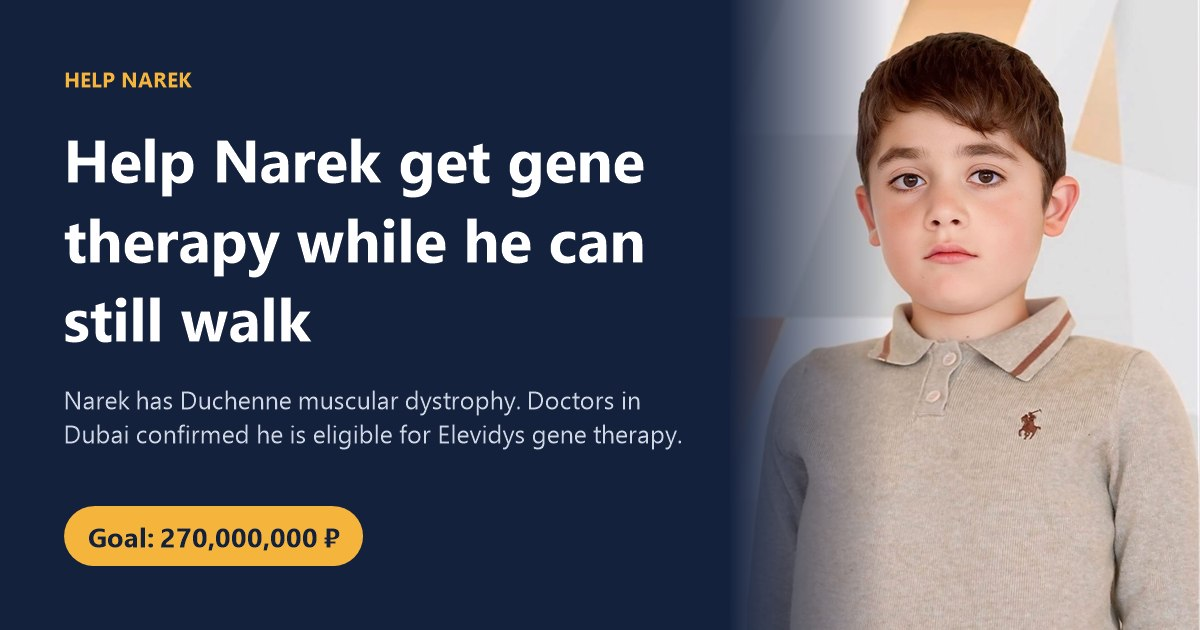
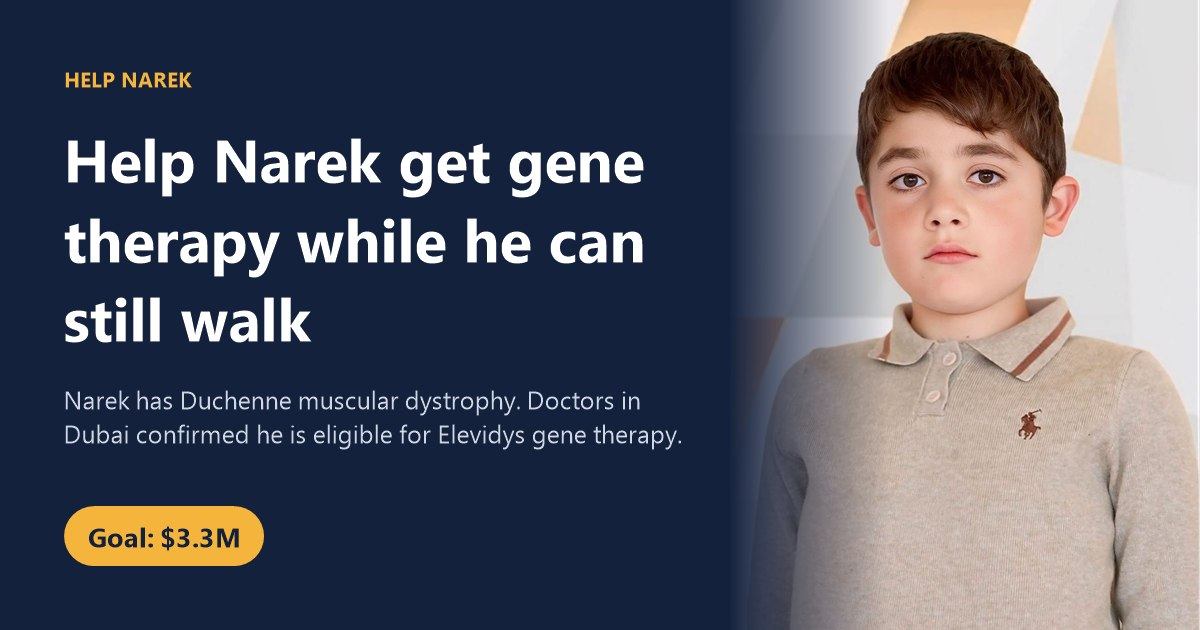
feat: add moneyCompact filter and enhance currency handling
- Introduced a new filter `moneyCompact` for compact currency formatting.
- Enhanced `inCurrency` function for better currency conversion handling.
- Updated `pageVars` to utilize new currency conversion logic and display both compact and full currency formats.
- Modified campaign data structure to remove TODO placeholders for beneficiary and account details.
- Improved English, Armenian, and Russian translations for clarity and consistency.
- Refactored donation section to improve layout and accessibility.
- Added OG image generation script to format goal amounts correctly.
- Created a new og-data endpoint for social media previews.

Changed region(s): [[0.1233, 0.7841, 0.3083, 0.9048]]

diff --git a/src/assets/css/style.css b/src/assets/css/style.css
@@ -229,6 +229,14 @@ a:hover { color: var(--navy-600); }
 
 .actions { display: flex; flex-wrap: wrap; gap: 0.75rem; margin-top: 1.75rem; }
 
+.hero__date {
+  display: inline-flex; align-items: center; gap: 0.5rem; margin: 0;
+  padding: 0.45em 1em; border-radius: 999px;
+  background: var(--amber-100); border: 1px solid var(--amber); color: var(--amber-ink);
+  font-size: 0.98rem; font-weight: 600;
+}
+.hero__date strong { color: var(--navy-900); }
+
 @media (min-width: 960px) {
   .hero__grid { grid-template-columns: minmax(0, 1.2fr) minmax(0, 0.8fr); }
   .hero__photo { justify-self: end; }
@@ -383,49 +391,86 @@ a:hover { color: var(--navy-600); }
 
 /* ---------- Donate ---------- */
 
+/* Sits right under the hero, on white, so it reads as its own step */
 .section--donate {
-  background:
-    radial-gradient(50rem 25rem at 100% 0%, rgb(245 181 61 / 0.16), transparent 60%),
-    var(--bg);
+  padding-block: clamp(2.5rem, 6vw, 4.5rem);
+  background: var(--surface);
+  border-block: 1px solid var(--line);
 }
-.donate__head { max-width: 46rem; margin-bottom: 2rem; }
+/* Narrower than the page, but left-aligned with the other sections */
+.donate > * { max-width: 940px; }
+.donate__head { margin-bottom: 1.5rem; }
+.donate__head .lead { margin-bottom: 1rem; }
 .recipient {
   display: inline-flex; flex-wrap: wrap; align-items: baseline; gap: 0.35em;
-  background: var(--surface); border: 1px solid var(--line); border-radius: 999px;
-  padding: 0.5em 1.1em; margin: 0; box-shadow: var(--shadow-sm);
+  background: var(--alt); border-radius: 14px;
+  padding: 0.45em 1.1em; margin: 0;
 }
 .recipient strong { color: var(--navy-900); }
 
-/* Two roomy columns so card numbers and their Copy button always fit on one line.
-   "dense" lets the "After you donate" tile fill the gap next to an odd card. */
-.pay-grid {
-  display: grid; gap: 1.25rem; grid-auto-flow: row dense;
-  grid-template-columns: repeat(auto-fill, minmax(min(100%, 420px), 1fr));
-}
-.pay {
-  display: flex; flex-direction: column;
+/* One row per card / wallet: currency · name + bank · number · Copy */
+.pay-list {
+  list-style: none; margin: 0; padding: 0;
   background: var(--surface); border: 1px solid var(--line); border-radius: var(--radius-lg);
-  padding: 1.4rem; box-shadow: var(--shadow-sm);
+  box-shadow: var(--shadow); overflow: hidden;
 }
-.pay--swift { grid-column: 1 / -1; }
-.pay__head { display: flex; align-items: center; justify-content: space-between; gap: 1rem; margin-bottom: 1rem; }
-.pay__head h3 { margin: 0; font-size: 1.1rem; }
-.pay__currency {
-  flex: none; background: var(--navy-900); color: #fff;
-  font-size: 0.78rem; font-weight: 800; letter-spacing: 0.06em;
-  padding: 0.25em 0.65em; border-radius: 999px;
+.pay-row {
+  display: grid; align-items: center; gap: 0.5rem 1rem;
+  grid-template-columns: auto minmax(0, 1fr) auto auto;
+  grid-template-areas: "cur info number copy";
+  padding: 1rem 1.25rem;
 }
-.pay__label { margin: 0 0 0.2rem; font-size: 0.8rem; font-weight: 700; letter-spacing: 0.04em; text-transform: uppercase; color: var(--muted); }
-.pay__number {
-  display: flex; flex-wrap: wrap; align-items: center; justify-content: space-between; gap: 0.5rem 0.75rem;
-  background: var(--alt); border-radius: var(--radius-sm); padding: 0.55rem 0.55rem 0.55rem 0.9rem;
+.pay-row + .pay-row { border-top: 1px solid var(--line); }
+.pay-row__currency {
+  grid-area: cur; display: grid; place-items: center;
+  min-width: 52px; height: 34px; padding: 0 0.55rem; border-radius: 10px;
+  background: var(--navy-900); color: #fff;
+  font-size: 0.78rem; font-weight: 800; letter-spacing: 0.06em; white-space: nowrap;
 }
-.pay__digits {
-  font-size: clamp(1.1rem, 1rem + 0.6vw, 1.3rem); font-weight: 750; letter-spacing: 0.04em;
+.pay-row__info { grid-area: info; min-width: 0; }
+.pay-row__title { margin: 0; font-size: 1.02rem; font-weight: 700; letter-spacing: 0; color: var(--navy-900); }
+.pay-row__meta { margin: 0.1rem 0 0; font-size: 0.88rem; line-height: 1.4; color: var(--muted); }
+.pay-row__number {
+  grid-area: number;
+  font-size: 1.15rem; font-weight: 750; letter-spacing: 0.04em;
   font-variant-numeric: tabular-nums; color: var(--navy-900); white-space: nowrap;
 }
-.pay__bank { margin: 0.8rem 0 0; font-size: 0.95rem; }
-.pay__hint { margin: 0.6rem 0 0; font-size: 0.92rem; color: var(--muted); }
+.pay-row > .copy { grid-area: copy; }
+@media (max-width: 640px) {
+  .pay-row {
+    grid-template-columns: auto minmax(0, 1fr) auto;
+    grid-template-areas: "cur info info" "number number copy";
+    align-items: start;
+    padding: 1rem;
+  }
+  .pay-row__currency { height: 26px; min-width: 44px; font-size: 0.72rem; margin-top: 0.1rem; }
+  .pay-row__number, .pay-row > .copy { align-self: center; }
+  .pay-row__number { font-size: 1.08rem; }
+}
+
+/* International transfer: folded by default */
+.pay-swift {
+  margin-top: 1rem;
+  background: var(--surface); border: 1px solid var(--line); border-radius: var(--radius-lg);
+  box-shadow: var(--shadow-sm);
+}
+.pay-swift summary {
+  display: flex; align-items: center; gap: 1rem;
+  padding: 1rem 1.25rem; cursor: pointer; list-style: none;
+}
+.pay-swift summary::-webkit-details-marker { display: none; }
+.pay-swift summary::after {
+  content: ""; flex: none; margin: 0 0.4rem 0 auto;
+  width: 9px; height: 9px;
+  border-right: 2px solid var(--navy-800); border-bottom: 2px solid var(--navy-800);
+  transform: rotate(45deg) translate(-2px, -2px); transition: transform 0.2s;
+}
+.pay-swift[open] summary::after { transform: rotate(-135deg) translate(-2px, -2px); }
+.pay-swift__title { display: flex; flex-direction: column; min-width: 0; }
+.pay-swift__toggle { font-size: 0.88rem; font-weight: 600; color: var(--navy-600); text-decoration: underline; text-underline-offset: 0.2em; }
+.pay-swift[open] .pay-swift__toggle { display: none; }
+.pay-swift__body { padding: 1rem 1.25rem 1.25rem; border-top: 1px solid var(--line); }
+.pay-swift__hint { font-size: 0.92rem; color: var(--muted); }
 
 .pay__fields { display: grid; gap: 0.9rem 2rem; margin: 0; grid-template-columns: repeat(auto-fill, minmax(min(100%, 280px), 1fr)); }
 .pay__fields dt { font-size: 0.8rem; font-weight: 700; letter-spacing: 0.04em; text-transform: uppercase; color: var(--muted); }
@@ -443,13 +488,9 @@ a:hover { color: var(--navy-600); }
 .copy:hover { border-color: var(--navy-600); }
 .copy.is-done { background: var(--green); border-color: var(--green); color: #fff; }
 
-.after-donate {
-  display: flex; gap: 1rem; align-items: flex-start;
-  background: var(--navy-900); color: #dfe5f1; border-radius: var(--radius-lg); padding: 1.4rem 1.6rem;
-}
-.after-donate > .icon { color: var(--amber); width: 28px; height: 28px; margin-top: 2px; }
-.after-donate h3 { color: #fff; margin-bottom: 0.25rem; font-size: 1.1rem; }
-.after-donate p { margin: 0; }
+.after-donate { display: flex; gap: 0.6rem; align-items: flex-start; margin: 1.5rem 0 0; font-size: 0.95rem; color: var(--muted); }
+.after-donate > .icon { color: var(--amber-600); margin-top: 0.2em; }
+.after-donate strong { color: var(--navy-900); }
 
 /* ---------- Documents ---------- */
 
@@ -607,7 +648,7 @@ a.doc__thumb:hover img { transform: scale(1.04); }
 /* Segoe UI (Windows) has no Armenian glyphs above bold, so heavier weights fall back to a serif font.
    Capping at 700 keeps headings in the same typeface as the text. */
 :lang(hy) :is(h1, h2, h3, .brand, .hero__title, .progress-card__amount, .fact__title,
-  .timeline__age, .costs tfoot th, .costs tfoot td, .site-footer__brand, .pay__digits) {
+  .timeline__age, .costs tfoot th, .costs tfoot td, .site-footer__brand, .pay-row__number) {
   font-weight: 700;
 }
 :lang(hy) .hero__title { letter-spacing: -0.015em; }

diff --git a/lib/helpers.js b/lib/helpers.js
@@ -25,6 +25,30 @@ export function money(amount, currency, locale) {
   }).format(amount);
 }
 
+// "$3.3M", "270 млн ₽", "3,3 մլն $"
+export function moneyCompact(amount, currency, locale) {
+  if (typeof amount !== "number") return String(amount);
+  return new Intl.NumberFormat(locale, {
+    style: "currency",
+    currency,
+    currencyDisplay: "narrowSymbol",
+    notation: "compact",
+    maximumFractionDigits: 1,
+  }).format(amount);
+}
+
+// Converts an amount stored in the goal currency, using the goal's "approx" figure for `currency`.
+// Returns null when there is no conversion for that currency.
+export function inCurrency(amount, currency, goal) {
+  if (typeof amount !== "number") return null;
+  if (currency === goal.currency) return amount;
+  const alt = (goal.approx || []).find((a) => a.currency === currency && typeof a.amount === "number");
+  return alt ? (amount * alt.amount) / goal.amount : null;
+}
+
+// A converted amount is an estimate, so don't pretend to cent precision: 11,166 -> 11,200
+const roundEstimate = (n) => (n >= 1000 ? Math.round(n / 100) * 100 : Math.round(n / 10) * 10);
+
 export function formatDate(iso, locale) {
   if (isTodo(iso)) return iso;
   const date = new Date(String(iso).length === 10 ? `${iso}T00:00:00Z` : iso);
@@ -112,11 +136,25 @@ export function findTodos(value, trail = "", out = []) {
 // Values shared by every page of one language, available in templates as `vars`.
 export function pageVars(data, lang) {
   const { campaign } = data;
+  const { goal, raised } = campaign;
   const age = ageOn(campaign.child.birthDate);
+
+  // The page's display currency, falling back to the goal currency when there is no conversion for it
+  const wanted = lang.currency || goal.currency;
+  const currency = inCurrency(goal.amount, wanted, goal) === null ? goal.currency : wanted;
+  const converted = currency !== goal.currency;
+  const goalIn = inCurrency(goal.amount, currency, goal);
+  const raisedIn = inCurrency(raised.amount, currency, goal);
+
   return {
     age,
     birthDate: formatDate(campaign.child.birthDate, lang.locale),
-    goal: money(campaign.goal.amount, campaign.goal.currency, lang.locale),
+    currency,
+    converted,
+    goal: moneyCompact(goalIn, currency, lang.locale),
+    goalFull: money(goalIn, currency, lang.locale),
+    raised: raisedIn === null ? null : money(converted ? roundEstimate(raisedIn) : raisedIn, currency, lang.locale),
+    raisedOriginal: typeof raised.amount === "number" ? money(raised.amount, goal.currency, lang.locale) : null,
     // Position on the "How Duchenne usually progresses" timeline
     stage: age < 5 ? 0 : age < 10 ? 1 : age < 14 ? 2 : 3,
     buildDate: formatDate(new Date().toISOString().slice(0, 10), lang.locale),

diff --git a/src/_data/languages.js b/src/_data/languages.js
@@ -3,10 +3,12 @@ import { deepMerge } from "../../lib/helpers.js";
 
 // To add a language: copy i18n/en.json to i18n/<code>.json, translate it, then set enabled: true below.
 // Any string missing from a translation falls back to English, so a partial translation still builds.
+// `currency`: how the goal and the amount raised are shown on that page. Amounts are stored in the
+// goal currency (campaign.json) and converted with the goal's own "approx" figure for that currency.
 const LANGUAGES = [
-  { code: "en", name: "English", locale: "en-GB", enabled: true },
-  { code: "hy", name: "Հայերեն", locale: "hy-AM", enabled: true },
-  { code: "ru", name: "Русский", locale: "ru-RU", enabled: true },
+  { code: "en", name: "English", locale: "en-GB", currency: "USD", enabled: true },
+  { code: "hy", name: "Հայերեն", locale: "hy-AM", currency: "USD", enabled: true },
+  { code: "ru", name: "Русский", locale: "ru-RU", currency: "RUB", enabled: true },
 ];
 
 const read = (code) => {

diff --git a/src/og-data.11tydata.js b/src/og-data.11tydata.js
@@ -1,0 +1,20 @@
+import { interp, pageVars } from "../lib/helpers.js";
+
+// Texts for tools/make-og-image.ps1, per language, with {goal} etc. already formatted
+// exactly as the page shows them (same currency, same number format).
+export default {
+  permalink: "/og-data.json",
+  eleventyExcludeFromCollections: true,
+  eleventyComputed: {
+    ogData: (data) => {
+      const out = {};
+      // Eleventy first calls this with placeholder data to find dependencies, so guard every step
+      for (const lang of Array.isArray(data.languages) ? data.languages : []) {
+        if (!lang?.code || !lang?.t?.og || !data.campaign?.child) continue;
+        const vars = pageVars(data, lang);
+        out[lang.code] = Object.fromEntries(Object.entries(lang.t.og).map(([key, text]) => [key, interp(text, vars)]));
+      }
+      return out;
+    },
+  },
+};

diff --git a/eleventy.config.js b/eleventy.config.js
@@ -19,6 +19,7 @@ export default function (eleventyConfig) {
   eleventyConfig.addFilter("isTodo", h.isTodo);
   eleventyConfig.addFilter("interp", h.interp);
   eleventyConfig.addFilter("money", h.money);
+  eleventyConfig.addFilter("moneyCompact", h.moneyCompact);
   eleventyConfig.addFilter("formatDate", h.formatDate);
   eleventyConfig.addFilter("groupDigits", h.groupDigits);
   eleventyConfig.addFilter("percent", h.percent);

diff --git a/README.md b/README.md
@@ -74,12 +74,13 @@ All text lives in `src/_data/i18n/en.json`, `hy.json` and `ru.json`, and each fi
   ```
 
 - **Which language opens first:** the bare domain `/` opens the language the visitor last chose, otherwise their browser's language, otherwise `defaultLanguage` from `src/_data/site.json` (currently English).
+- **Currency on each page:** set by `currency` in `src/_data/languages.js`: US dollars for English and Armenian, roubles for Russian. Amounts are stored in roubles in `campaign.json`. The dollar figures are converted with your own goal ratio (`goal.approx`: 270,000,000 ₽ ≈ $3,300,000), are marked "≈", and the rouble total is shown underneath.
 - **Turning a language off:** set `enabled: false` in `src/_data/languages.js`.
 - **Adding another language:** copy `en.json` to `<code>.json`, translate it, and add the language to `languages.js`.
 
 ## Social preview image
 
-`src/assets/img/og/og-en.jpg` is the picture WhatsApp, Telegram, Facebook and others show when the link is shared. It is built from the `og` texts in `i18n/<lang>.json` and the goal in `campaign.json`. Run `tools\make-og-image.ps1` again after changing either.
+`src/assets/img/og/og-<lang>.jpg` is the picture WhatsApp, Telegram, Facebook and others show when the link is shared. It is built from the `og` texts in `i18n/<lang>.json`, with the goal in the page's currency. The script builds the site first and reads the finished texts from `_site/og-data.json`. Run `tools\make-og-image.ps1 -Lang <lang>` again after changing the texts or the goal.
 
 ## Publishing on GitHub Pages (current setup)
 
